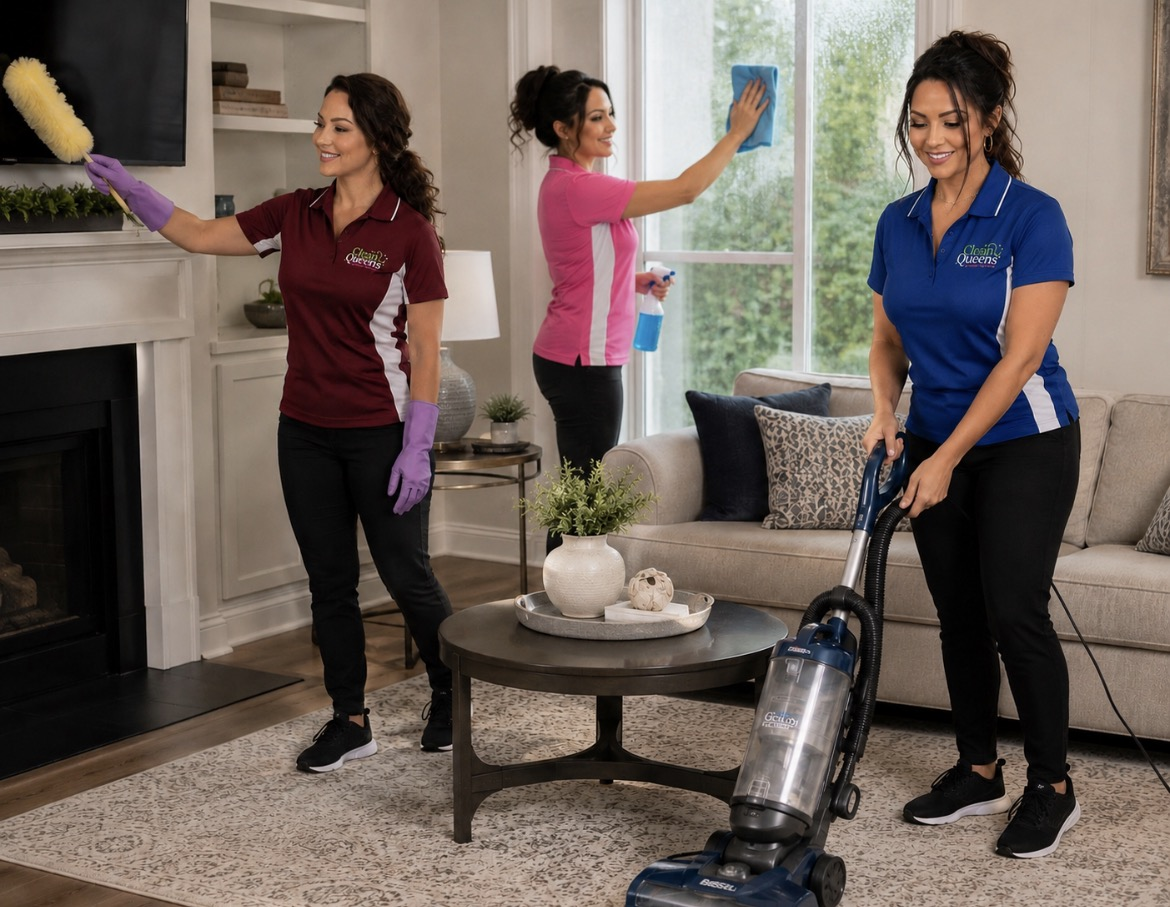
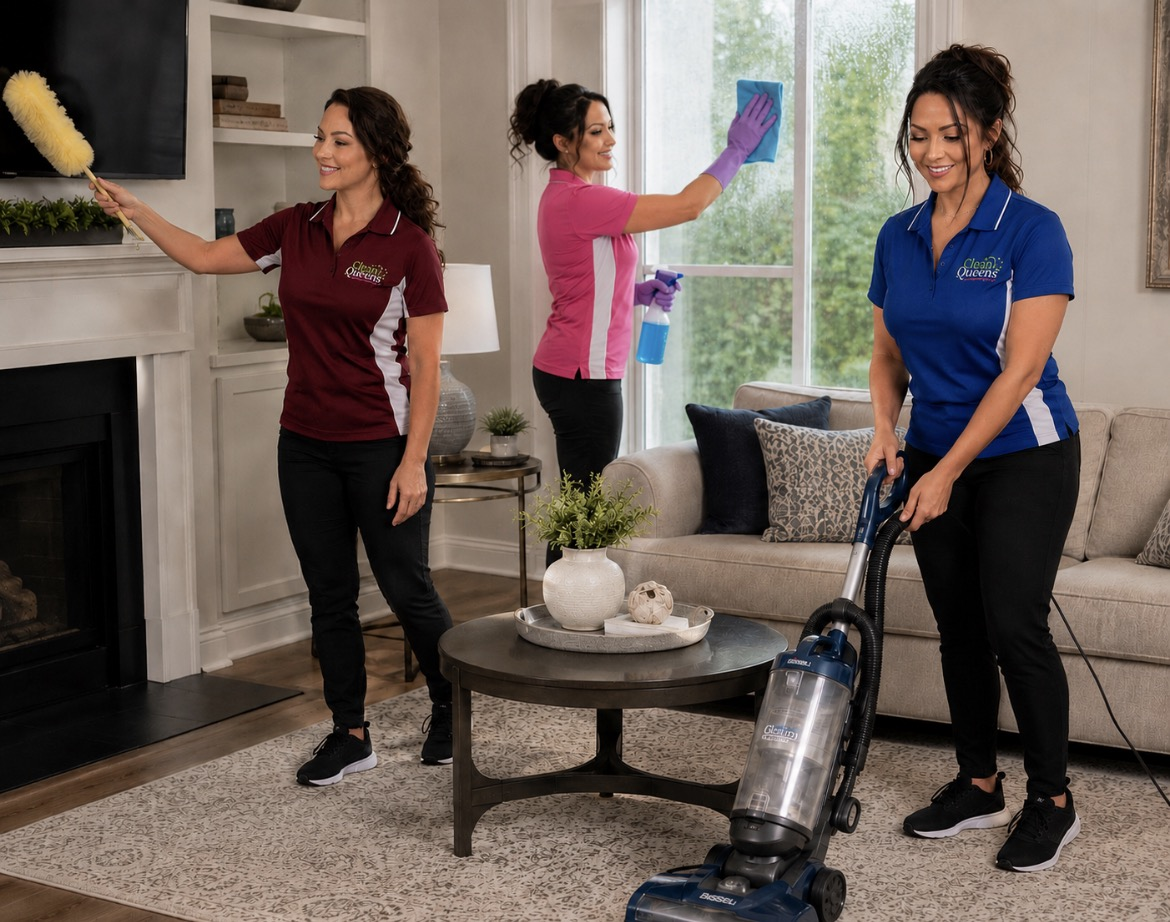
describe what you changed

diff --git a/src/index.css b/src/index.css
@@ -66,10 +66,10 @@
   .site-footer__socials { display: grid !important; grid-template-columns: repeat(5, 2.3rem); gap: .65rem !important; align-items: center; }
   .site-footer__socials a { display: grid; width: 2.3rem; height: 2.3rem; place-items: center; overflow: hidden; border-radius: 50%; background: white; }
   .site-footer__socials img { width: 100%; height: 100%; object-fit: contain; }
-  .site-footer__socials .social-google img { width: 100%; height: 100%; object-fit: contain; transform: none; }
-  .site-footer__socials .social-nextdoor, .site-footer__socials .social-yelp { background: transparent; }
-  .site-footer__socials .social-nextdoor img { width: 2.3rem; height: 2.3rem; max-width: none; object-fit: cover; transform: scale(1.27); }
-  .site-footer__socials .social-yelp img { width: 2.3rem; height: 2.3rem; max-width: none; object-fit: contain; transform: none; }
+  .site-footer__socials .social-google, .site-footer__socials .social-nextdoor, .site-footer__socials .social-yelp { background: transparent; }
+  .site-footer__socials .social-google img { width: 100%; height: 100%; object-fit: contain; transform: scale(1.34); }
+  .site-footer__socials .social-nextdoor img { width: 100%; height: 100%; max-width: none; object-fit: contain; transform: translateX(1px) scale(1.21); }
+  .site-footer__socials .social-yelp img { width: 100%; height: 100%; max-width: none; object-fit: contain; transform: scale(1.21); }
   .site-footer__bottom { padding: .7rem 1rem; background: #e72775; color: white; font-size: .68rem; text-align: center; }
 
   .site-page { background: #fff; }
@@ -214,7 +214,7 @@
   .home-primary { background: #e72775; color: white; box-shadow: 0 12px 24px rgb(231 39 117 / 24%); }
   .home-secondary { border: 2px solid #e72775; color: #d61e69; }
   .home-primary:hover, .home-secondary:hover { transform: translateY(-2px); }
-  .home-photo-frame { position: relative; width: 100%; min-height: clamp(15rem, 66vw, 24rem); overflow: hidden; border-radius: 1.25rem 1.25rem 1.25rem 5rem; background: #e9eef4; box-shadow: 0 28px 55px rgb(12 38 79 / 18%); }
+  .home-photo-frame { position: relative; width: 100%; aspect-ratio: 1170 / 922; overflow: hidden; border-radius: 1.25rem 1.25rem 1.25rem 5rem; background: #e9eef4; box-shadow: 0 28px 55px rgb(12 38 79 / 18%); }
   .home-photo-frame img { position: absolute; inset: 0; display: block; width: 100%; height: 100%; object-fit: cover; object-position: 52% center; }
   .home-photo-badge { position: absolute; right: 0; bottom: 1.4rem; display: flex; align-items: center; gap: .7rem; width: min(85%, 20rem); padding: .85rem 1rem; background: #071f49; color: white; font-size: .76rem; font-weight: 800; text-transform: uppercase; }
   .home-photo-badge svg { flex: 0 0 auto; color: #e72775; }
@@ -317,7 +317,6 @@
     .home-hero__grid { width: min(100% - 4rem, 90rem); grid-template-columns: minmax(31rem, .9fr) minmax(34rem, 1.1fr); }
     .home-hero__copy { grid-column: 1; grid-row: 1; min-width: 0; }
     .home-hero__visual { grid-column: 2; grid-row: 1; min-width: 0; }
-    .home-photo-frame { min-height: 34rem; }
     .home-hero__copy h1 { max-width: none; font-size: clamp(3.1rem, 3.65vw, 4.25rem); }
     .home-hero__intro { max-width: none; }
   }

diff --git a/src/pages/AboutUs.jsx b/src/pages/AboutUs.jsx
@@ -1,6 +1,7 @@
 import FadeIn from '../components/FadeIn'
 import ceo from '../assets/ceo.jpg'
 import president from '../assets/opt-president.jpg'
+import sarah from '../assets/sarah.jpg'
 
 const team = [
   {
@@ -16,6 +17,16 @@ const team = [
     role: 'President',
     bio: 'Jennifer Holloway joined Clean Queens in November 2025. She began as a top performing Cleaning Specialist. She performed so well in that role — training other cleaners and providing exceptional customer service — that in June 2026 she was promoted to President of the company.',
     reverse: true,
+  },
+  {
+    image: sarah,
+    name: 'Sarah Coleman',
+    role: 'Vice President',
+    bio: [
+      'Sarah Coleman joined Clean Queens in July 2026 as a Cleaning Specialist and quickly distinguished herself as a top-performing member of the team. Her exceptional cleaning skills, combined with her experience in management and marketing, made her stand out from the very beginning.',
+      'In recognition of her outstanding performance, leadership abilities, and versatility, Sarah was promoted to Vice President of Clean Queens in August 2026—just one month after joining the company. Her rapid advancement reflects the impact she made from day one and the confidence Clean Queens has in her leadership.',
+    ],
+    reverse: false,
   },
 ]
 
@@ -52,7 +63,13 @@ export default function AboutUs() {
                       {role}
                     </span>
                   </div>
-                  <p className="about-bio text-gray-700 leading-relaxed">{bio}</p>
+                  {Array.isArray(bio) ? (
+                    <div className="about-bio space-y-4 text-gray-700 leading-relaxed">
+                      {bio.map(paragraph => <p key={paragraph}>{paragraph}</p>)}
+                    </div>
+                  ) : (
+                    <p className="about-bio text-gray-700 leading-relaxed">{bio}</p>
+                  )}
                 </div>
               </article>
               {i < team.length - 1 && <hr className="about-divider border-gray-200" />}

diff --git a/src/pages/JoinOurTeam.jsx b/src/pages/JoinOurTeam.jsx
@@ -158,9 +158,9 @@ export default function JoinOurTeam() {
                       <p className="font-semibold text-[#1E5DB8]">Email Us</p>
                       <a
                         className="text-gray-700 hover:text-[#1E5DB8] transition-colors font-medium break-all"
-                        href="mailto:hiring@cleanqueens.net"
+                        href="mailto:careers@cleanqueens.net"
                       >
-                        hiring@cleanqueens.net
+                        careers@cleanqueens.net
                       </a>
                     </div>
                   </div>
